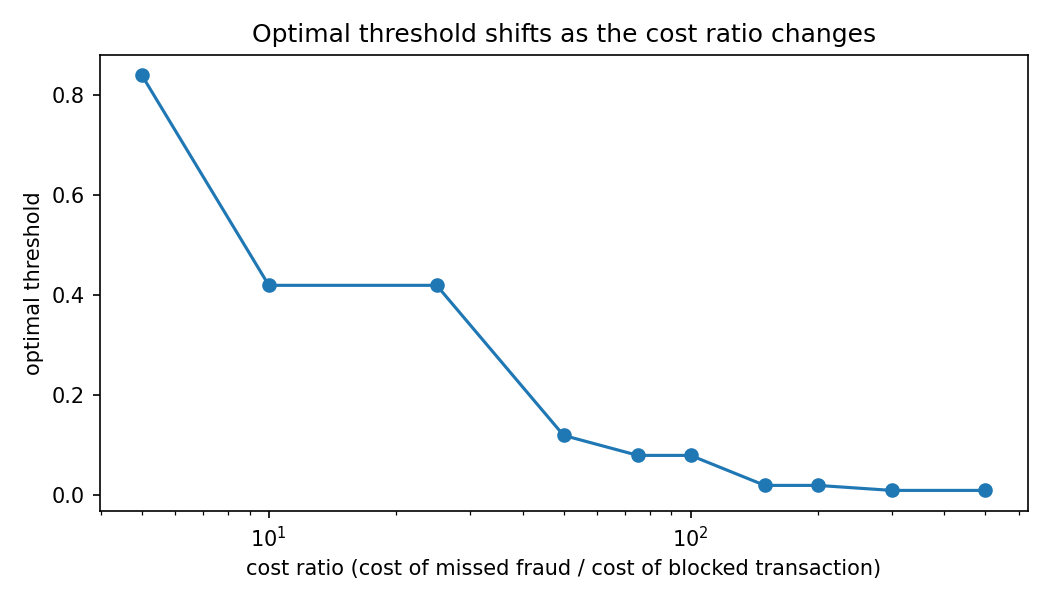
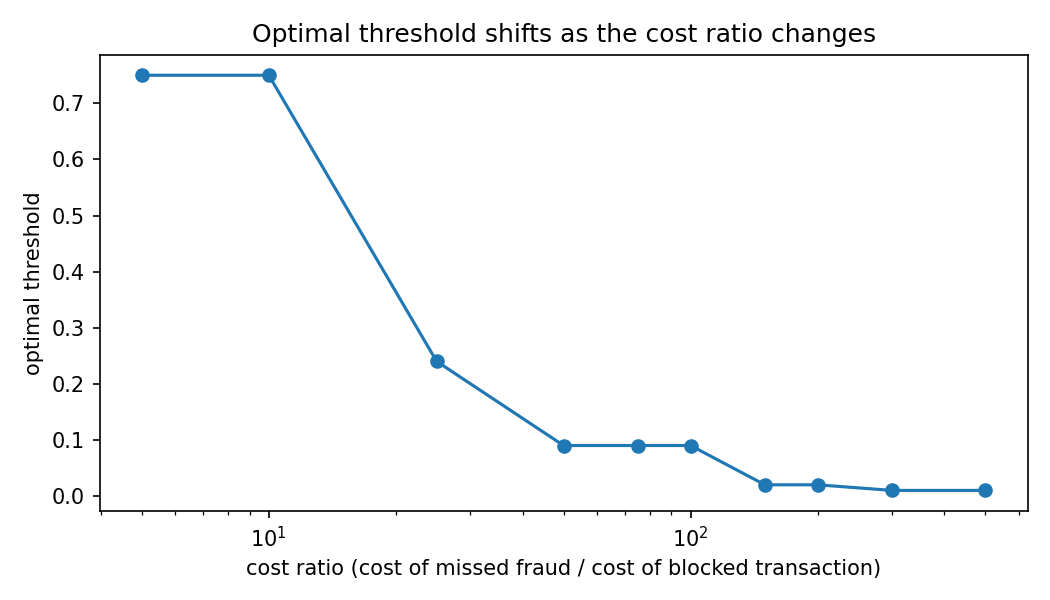
Select thresholds on val, report cost on held-out test

diff --git a/src/models/run_cost_analysis.py b/src/models/run_cost_analysis.py
@@ -1,6 +1,10 @@
 """Run the cost-sensitive decision engine against the class-weighted XGBoost model (the Day 3
 winner): find the cost-minimizing threshold, plot cost vs. threshold, and sweep the cost ratio
 to show how the optimum moves. Logged to MLflow; figures saved for the README.
+
+Threshold selection happens on the validation split only; every reported dollar figure is the
+val-selected threshold evaluated on the untouched test split, so these numbers are a genuine
+out-of-sample result rather than a threshold chosen to look good on the set it's reported on.
 """
 
 from pathlib import Path
@@ -65,6 +69,7 @@ def main() -> None:
     mlflow.set_experiment("fraud-detection-cost-engine")
 
     X_train, y_train = _load_split("train")
+    X_val, y_val = _load_split("val")
     X_test, y_test = _load_split("test")
 
     pipeline = build_pipeline("class_weight")
@@ -73,25 +78,34 @@ def main() -> None:
     pipeline.set_params(classifier__scale_pos_weight=n_neg / n_pos)
     pipeline.fit(X_train, y_train)
 
-    y_proba = pipeline.predict_proba(X_test)[:, 1]
+    y_val_proba = pipeline.predict_proba(X_val)[:, 1]
+    y_val_arr = y_val.to_numpy()
+    y_test_proba = pipeline.predict_proba(X_test)[:, 1]
     y_test_arr = y_test.to_numpy()
 
     with mlflow.start_run(run_name="cost_threshold_optimization"):
         mlflow.log_param("cost_fn", DEFAULT_COST_FALSE_NEGATIVE)
         mlflow.log_param("cost_fp", DEFAULT_COST_FALSE_POSITIVE)
 
+        # selection happens on val
+        sweep = optimize_threshold(y_val_arr, y_val_proba, cost_fn=DEFAULT_COST_FALSE_NEGATIVE, cost_fp=DEFAULT_COST_FALSE_POSITIVE)
+
+        # reporting happens on the untouched test set, at the val-selected threshold
         default_cost = expected_cost(
-            y_test_arr, y_proba, threshold=0.5, cost_fn=DEFAULT_COST_FALSE_NEGATIVE, cost_fp=DEFAULT_COST_FALSE_POSITIVE
+            y_test_arr, y_test_proba, threshold=0.5, cost_fn=DEFAULT_COST_FALSE_NEGATIVE, cost_fp=DEFAULT_COST_FALSE_POSITIVE
         )
-        sweep = optimize_threshold(y_test_arr, y_proba, cost_fn=DEFAULT_COST_FALSE_NEGATIVE, cost_fp=DEFAULT_COST_FALSE_POSITIVE)
-        reduction_pct = 100 * (default_cost - sweep.optimal_cost) / default_cost
+        optimal_cost_test = expected_cost(
+            y_test_arr, y_test_proba, threshold=sweep.optimal_threshold,
+            cost_fn=DEFAULT_COST_FALSE_NEGATIVE, cost_fp=DEFAULT_COST_FALSE_POSITIVE,
+        )
+        reduction_pct = 100 * (default_cost - optimal_cost_test) / default_cost
 
         mlflow.log_metrics(
             {
-                "default_threshold_cost": default_cost,
+                "default_threshold_cost_test": default_cost,
                 "optimal_threshold": sweep.optimal_threshold,
-                "optimal_cost": sweep.optimal_cost,
-                "cost_reduction_pct": reduction_pct,
+                "optimal_cost_test": optimal_cost_test,
+                "cost_reduction_pct_test": reduction_pct,
             }
         )
 
@@ -100,15 +114,16 @@ def main() -> None:
         mlflow.log_artifact(str(cost_plot_path))
 
         ratios = np.array([5, 10, 25, 50, 75, 100, 150, 200, 300, 500])
-        sensitivity_results = cost_ratio_sensitivity_sweep(y_test_arr, y_proba, cost_ratios=ratios)
+        sensitivity_results = cost_ratio_sensitivity_sweep(y_val_arr, y_val_proba, cost_ratios=ratios)
         sensitivity_plot_path = FIGURES_DIR / "cost_ratio_sensitivity.png"
         _plot_sensitivity_sweep(sensitivity_results, sensitivity_plot_path)
         mlflow.log_artifact(str(sensitivity_plot_path))
 
-        print(f"default (threshold=0.50) cost: ${default_cost:,.2f}")
-        print(f"optimal threshold: {sweep.optimal_threshold:.2f}, cost: ${sweep.optimal_cost:,.2f}")
-        print(f"cost reduction vs. default: {reduction_pct:.1f}%")
-        print("cost-ratio sensitivity sweep:")
+        print("(threshold selected on val, dollar figures evaluated on untouched test)")
+        print(f"default (threshold=0.50) cost on test: ${default_cost:,.2f}")
+        print(f"val-selected threshold: {sweep.optimal_threshold:.2f}, cost on test: ${optimal_cost_test:,.2f}")
+        print(f"cost reduction vs. default (on test): {reduction_pct:.1f}%")
+        print("cost-ratio sensitivity sweep (thresholds selected on val):")
         for r in sensitivity_results:
             print(f"  ratio={r['cost_ratio']:.0f} -> optimal_threshold={r['optimal_threshold']:.2f}")
 
